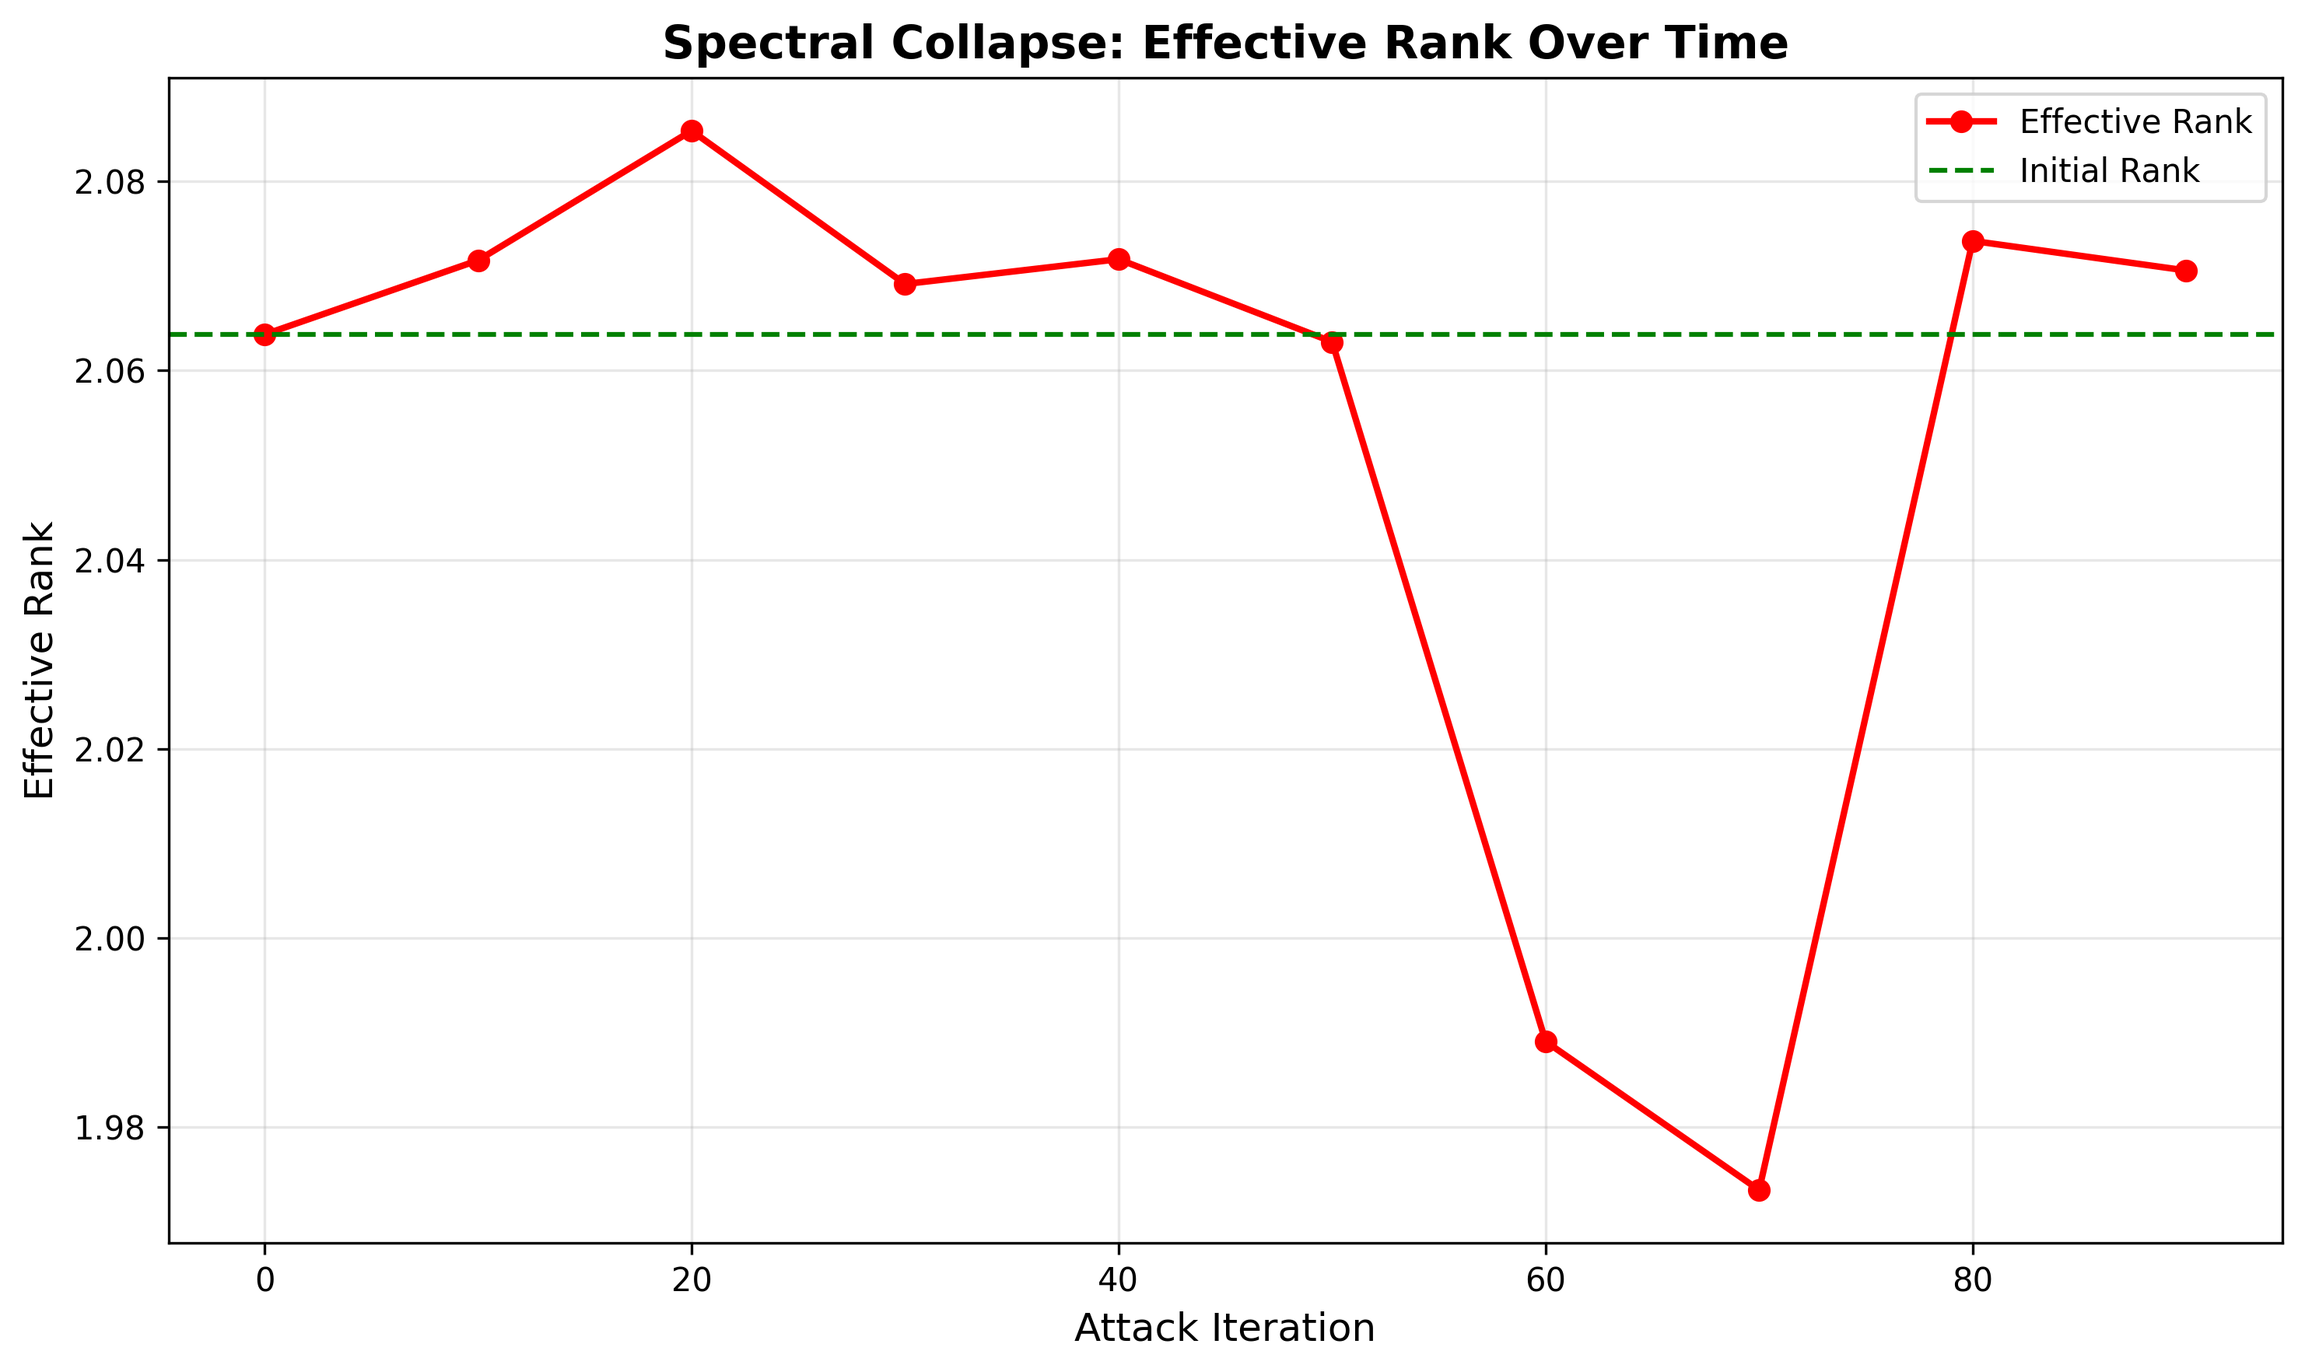
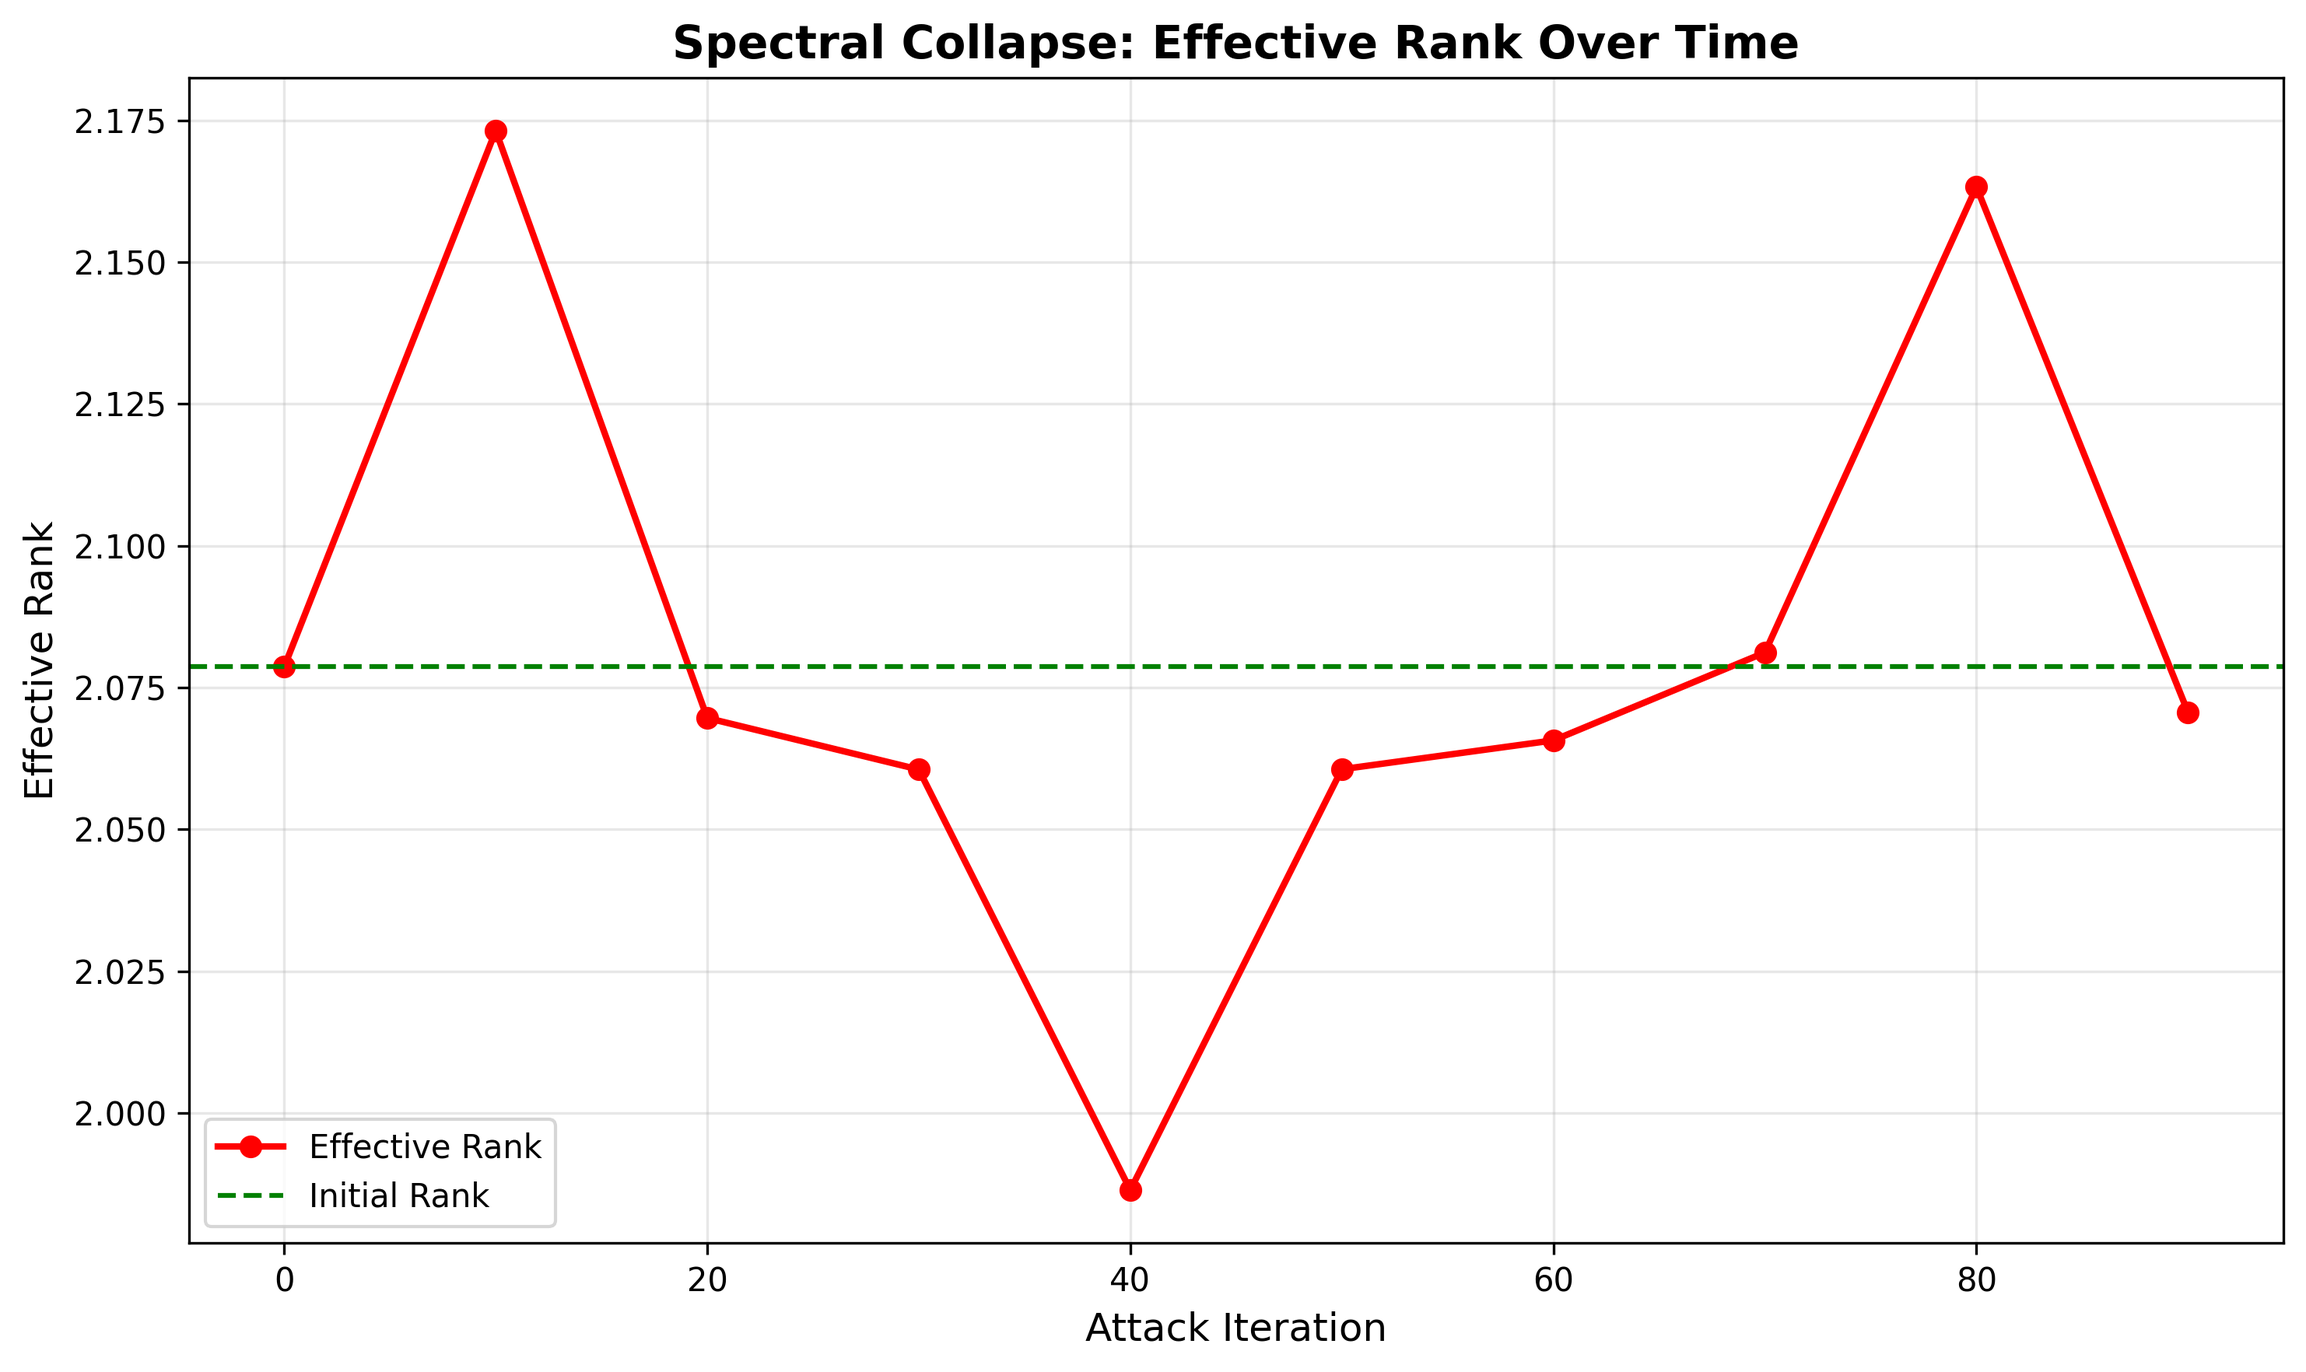
experiments for pythia {70m, 160m, 410m}.

diff --git a/src/catalyst.py b/src/catalyst.py
@@ -49,6 +49,39 @@ class HessianAwareCatalyst:
         self.noise_amp = noise_amplification_factor
         self.seed = seed
         self.model.eval()  # Set to eval mode for HVP computation
+    
+    def _is_quantized_model(self) -> bool:
+        """Check if model uses bitsandbytes quantization."""
+        try:
+            from bitsandbytes.nn import Linear4bit, Linear8bitLt
+            for module in self.model.modules():
+                if isinstance(module, (Linear4bit, Linear8bitLt)):
+                    return True
+        except ImportError:
+            pass
+        return False
+    
+    def _get_trainable_params(self) -> List[torch.nn.Parameter]:
+        """
+        Get list of trainable parameters (those that require grad).
+        
+        Returns:
+            List of parameters that require gradients
+        """
+        params = [p for p in self.model.parameters() if p.requires_grad]
+        if not params:
+            # Fallback: get all parameters if none require grad (shouldn't happen normally)
+            params = list(self.model.parameters())
+        return params
+    
+    def _get_num_trainable_params(self) -> int:
+        """
+        Get count of trainable parameters (those that require grad).
+        
+        Returns:
+            Total number of elements in trainable parameters
+        """
+        return sum(p.numel() for p in self._get_trainable_params())
         
     def _compute_loss(
         self,
@@ -93,15 +126,19 @@ class HessianAwareCatalyst:
         Returns:
             hvp: Hessian-vector product (flattened)
         """
-        # Get model parameters
-        params = list(self.model.parameters())
+        # Get model parameters - filter to only include those that require grad
+        params = self._get_trainable_params()
         
         # Get model dtype for consistency
         model_dtype = next(self.model.parameters()).dtype
         
+        # Check if model is quantized (bitsandbytes)
+        is_quantized = self._is_quantized_model()
+        
         # PyTorch autograd has issues with float16 for second-order gradients
         # Workaround: recompute gradients in float32 if model is float16
-        use_fp32_for_hvp = (model_dtype == torch.float16)
+        # Skip this workaround for quantized models as they handle precision internally
+        use_fp32_for_hvp = (model_dtype == torch.float16) and not is_quantized
         
         if use_fp32_for_hvp:
             # Save original parameter and buffer data, then convert entire model to float32
@@ -140,19 +177,50 @@ class HessianAwareCatalyst:
         try:
             with sdp_ctx:
                 loss = self._compute_loss(input_ids_fp32, labels_fp32)
-                grad = torch.autograd.grad(
-                    loss,
-                    params,
-                    create_graph=True,
-                    retain_graph=True
-                )
+                try:
+                    grad = torch.autograd.grad(
+                        loss,
+                        params,
+                        create_graph=True,
+                        retain_graph=True
+                    )
+                except RuntimeError as e:
+                    # Handle gradient computation failures, especially for quantized models
+                    if is_quantized and "does not require grad" in str(e):
+                        # For quantized models, filter params more strictly
+                        params = [p for p in params if p.requires_grad and p.grad_fn is None]
+                        if not params:
+                            raise RuntimeError(
+                                "No parameters with gradients found. Quantized models may have "
+                                "limited gradient support. Consider using a non-quantized model."
+                            ) from e
+                        # Retry with filtered parameters
+                        grad = torch.autograd.grad(
+                            loss,
+                            params,
+                            create_graph=True,
+                            retain_graph=True
+                        )
+                    else:
+                        raise
             
             # Flatten gradients
             grad_flat_parts = []
             for g in grad:
                 if g is not None:
                     grad_flat_parts.append(g.view(-1))
+            if not grad_flat_parts:
+                raise RuntimeError("No gradients computed. All gradients are None.")
             grad_flat = torch.cat(grad_flat_parts)
+            
+            # Validate vector size matches gradient size
+            expected_size = sum(p.numel() for p in params)
+            if vector.numel() != expected_size:
+                raise ValueError(
+                    f"Vector size mismatch: vector has {vector.numel()} elements, "
+                    f"but gradients have {expected_size} elements. "
+                    f"This may occur if parameters were filtered inconsistently."
+                )
             
             # Ensure vector matches grad_flat dtype
             if use_fp32_for_hvp:
@@ -247,8 +315,9 @@ class HessianAwareCatalyst:
                 if original_buffer_data is not None:
                     for name, orig_data in original_buffer_data.items():
                         self.model.get_buffer(name).data = orig_data
-                # Restore model to original dtype
-                self.model = self.model.to(dtype=model_dtype)
+                # Restore model to original dtype (skip for quantized models)
+                if not is_quantized:
+                    self.model = self.model.to(dtype=model_dtype)
         
         return hvp_flat
     
@@ -280,7 +349,7 @@ class HessianAwareCatalyst:
             null_directions: List of null space direction vectors
         """
         null_directions = []
-        num_params = sum(p.numel() for p in self.model.parameters())
+        num_params = self._get_num_trainable_params()
         
         # Get dtype from model parameters
         model_dtype = next(self.model.parameters()).dtype
@@ -490,7 +559,7 @@ class HessianAwareCatalyst:
             eigenvectors: Corresponding eigenvectors
         """
         # Use Power Iteration to estimate top eigenvalues
-        num_params = sum(p.numel() for p in self.model.parameters())
+        num_params = self._get_num_trainable_params()
         eigenvalues = []
         eigenvectors = []
         

diff --git a/experiments/01_pythia_160m/run_experiment.py b/experiments/01_pythia_160m/run_experiment.py
@@ -257,9 +257,10 @@ def main():
         help='Skip control group experiment'
     )
     parser.add_argument(
-        '--reset-between-runs',
-        action='store_true',
-        help='Reset model state before treatment group (ensures clean state)'
+        '--resume-from-checkpoint',
+        type=str,
+        default=None,
+        help='Path to checkpoint file to resume from (optional)'
     )
     
     args = parser.parse_args()
@@ -296,11 +297,32 @@ def main():
     # Load model
     model, tokenizer = load_model(config, args.device)
     
-    # Save initial model state for reset capability
-    if args.reset_between_runs:
-        import copy
-        initial_model_state = copy.deepcopy(model.state_dict())
-        print("Initial model state saved for reset capability")
+    # Resume from checkpoint if specified, otherwise save baseline checkpoint
+    if args.resume_from_checkpoint:
+        logger.load_checkpoint(
+            checkpoint_path=args.resume_from_checkpoint,
+            model=model
+        )
+        print(f"Resumed from checkpoint: {args.resume_from_checkpoint}")
+    else:
+        # Always save initial model state (baseline checkpoint)
+        baseline_checkpoint_path = logger.checkpoint_dir / "checkpoint_baseline.pt"
+        torch.save({
+            'step': 0,
+            'model_state_dict': model.state_dict(),
+            'checkpoint_type': 'baseline',
+            'description': 'Initial model state before any modifications'
+        }, baseline_checkpoint_path)
+        # Also save using logger for consistency
+        logger.save_checkpoint(
+            step=0,
+            model=model,
+            additional_state={
+                'checkpoint_type': 'baseline',
+                'description': 'Initial model state before any modifications'
+            }
+        )
+        print("Baseline model checkpoint saved to disk")
     
     # 1. Baseline measurement
     print("\n" + "="*50)
@@ -313,6 +335,15 @@ def main():
     
     # 2. Control group (optional)
     if not args.skip_control:
+        # Reset to baseline before control group
+        baseline_checkpoint_path = logger.checkpoint_dir / "checkpoint_baseline.pt"
+        if baseline_checkpoint_path.exists():
+            logger.load_checkpoint(
+                checkpoint_path=str(baseline_checkpoint_path),
+                model=model
+            )
+            print("Model reset to baseline state before control group")
+        
         print("\n" + "="*50)
         print("PHASE 2: Control Group (Random Noise)")
         print("="*50)
@@ -332,16 +363,38 @@ def main():
             control_history,
             save_path=str(logger.get_log_path() / "control_rank_collapse.png")
         )
+        
+        # Save checkpoint after control group
+        post_control_checkpoint_path = logger.checkpoint_dir / "checkpoint_post_control.pt"
+        torch.save({
+            'step': config.attack.num_steps,
+            'model_state_dict': model.state_dict(),
+            'checkpoint_type': 'post_control',
+            'description': 'Model state after control group (random noise)'
+        }, post_control_checkpoint_path)
+        logger.save_checkpoint(
+            step=config.attack.num_steps,
+            model=model,
+            additional_state={
+                'checkpoint_type': 'post_control',
+                'description': 'Model state after control group (random noise)'
+            }
+        )
+        print("Post-control checkpoint saved")
     
     # 3. Treatment group
     print("\n" + "="*50)
     print("PHASE 3: Treatment Group (Eigen-Prion)")
     print("="*50)
     
-    # Reset model state before treatment group if requested
-    if args.reset_between_runs:
-        model.load_state_dict(initial_model_state)
-        print("Model state reset to initial state before treatment group")
+    # Always reset to baseline before treatment group
+    baseline_checkpoint_path = logger.checkpoint_dir / "checkpoint_baseline.pt"
+    if baseline_checkpoint_path.exists():
+        logger.load_checkpoint(
+            checkpoint_path=str(baseline_checkpoint_path),
+            model=model
+        )
+        print("Model reset to baseline state before treatment group")
     
     treatment = run_treatment_group(model, tokenizer, args.device, config)
     
@@ -364,6 +417,24 @@ def main():
         treatment['history'],
         save_path=str(logger.get_log_path() / "treatment_rank_reduction.png")
     )
+    
+    # Save checkpoint after treatment group
+    post_treatment_checkpoint_path = logger.checkpoint_dir / "checkpoint_post_treatment.pt"
+    torch.save({
+        'step': config.attack.num_steps,
+        'model_state_dict': model.state_dict(),
+        'checkpoint_type': 'post_treatment',
+        'description': 'Model state after treatment group (Eigen-Prion attack)'
+    }, post_treatment_checkpoint_path)
+    logger.save_checkpoint(
+        step=config.attack.num_steps,
+        model=model,
+        additional_state={
+            'checkpoint_type': 'post_treatment',
+            'description': 'Model state after treatment group (Eigen-Prion attack)'
+        }
+    )
+    print("Post-treatment checkpoint saved")
     
     # 4. Post-attack measurement
     print("\n" + "="*50)

diff --git a/src/utils/logger.py b/src/utils/logger.py
@@ -152,7 +152,27 @@ class ExperimentLogger:
         checkpoint = torch.load(checkpoint_path, map_location='cpu')
         
         if model is not None:
-            model.load_state_dict(checkpoint['model_state_dict'])
+            state_dict = checkpoint['model_state_dict']
+            
+            # Filter out quantization-related keys (bitsandbytes metadata)
+            # These keys are not part of the standard PyTorch model structure
+            filtered_state_dict = {
+                k: v for k, v in state_dict.items()
+                if not any(quant_key in k for quant_key in ['.absmax', '.quant_map', '.quant_state'])
+            }
+            
+            # Load with strict=False to handle any remaining mismatches gracefully
+            missing_keys, unexpected_keys = model.load_state_dict(filtered_state_dict, strict=False)
+            
+            # Log warnings if there are missing or unexpected keys (but quantization keys are expected)
+            if missing_keys:
+                # Filter out quantization-related missing keys from warnings
+                non_quant_missing = [
+                    k for k in missing_keys 
+                    if not any(quant_key in k for quant_key in ['.absmax', '.quant_map', '.quant_state'])
+                ]
+                if non_quant_missing:
+                    print(f"Warning: Some model parameters were not found in checkpoint: {non_quant_missing[:5]}{'...' if len(non_quant_missing) > 5 else ''}")
         
         if optimizer is not None and 'optimizer_state_dict' in checkpoint:
             optimizer.load_state_dict(checkpoint['optimizer_state_dict'])

diff --git a/src/diagnosis.py b/src/diagnosis.py
@@ -29,7 +29,11 @@ def compute_effective_rank(
         effective_rank: Scalar effective rank value
     """
     # Reshape to (batch * seq_len, hidden_dim)
-    A = activations.view(-1, activations.size(-1)).detach().cpu().numpy()
+    # Convert to float32 if needed (numpy linalg doesn't support float16)
+    A = activations.view(-1, activations.size(-1)).detach().cpu()
+    if A.dtype == torch.float16:
+        A = A.float()
+    A = A.numpy()
     
     # Compute SVD
     U, s, Vt = svd(A, full_matrices=False)
@@ -69,7 +73,11 @@ def extract_singular_values(
         singular_values: Array of singular values (descending order)
     """
     # Reshape to (batch * seq_len, hidden_dim)
-    A = activations.view(-1, activations.size(-1)).detach().cpu().numpy()
+    # Convert to float32 if needed (numpy linalg doesn't support float16)
+    A = activations.view(-1, activations.size(-1)).detach().cpu()
+    if A.dtype == torch.float16:
+        A = A.float()
+    A = A.numpy()
     
     # Compute SVD
     U, s, Vt = svd(A, full_matrices=False)
@@ -101,7 +109,11 @@ def compute_spectral_gap(
         spectral_gap: Ratio lambda_1 / lambda_2
     """
     # Reshape to (batch * seq_len, hidden_dim)
-    A = activations.view(-1, activations.size(-1)).detach().cpu().numpy()
+    # Convert to float32 if needed (numpy linalg doesn't support float16)
+    A = activations.view(-1, activations.size(-1)).detach().cpu()
+    if A.dtype == torch.float16:
+        A = A.float()
+    A = A.numpy()
     
     # Compute covariance matrix
     A_centered = A - A.mean(axis=0, keepdims=True)
